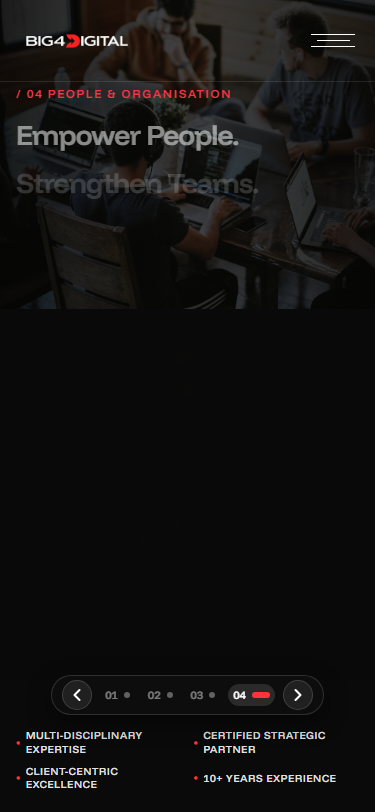
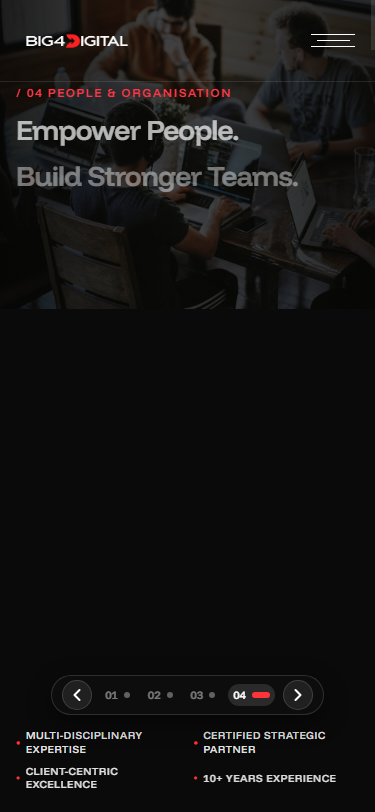
fix(hero): update slide 4 heading to Empower People. Build Stronger Teams.

diff --git a/index.html b/index.html
@@ -151,7 +151,7 @@
         </div>
         <div class="heading-row heading-row-two">
          <span class="heading-big">
-          Strengthen Teams.
+          Build Stronger Teams.
          </span>
         </div>
        </div>
